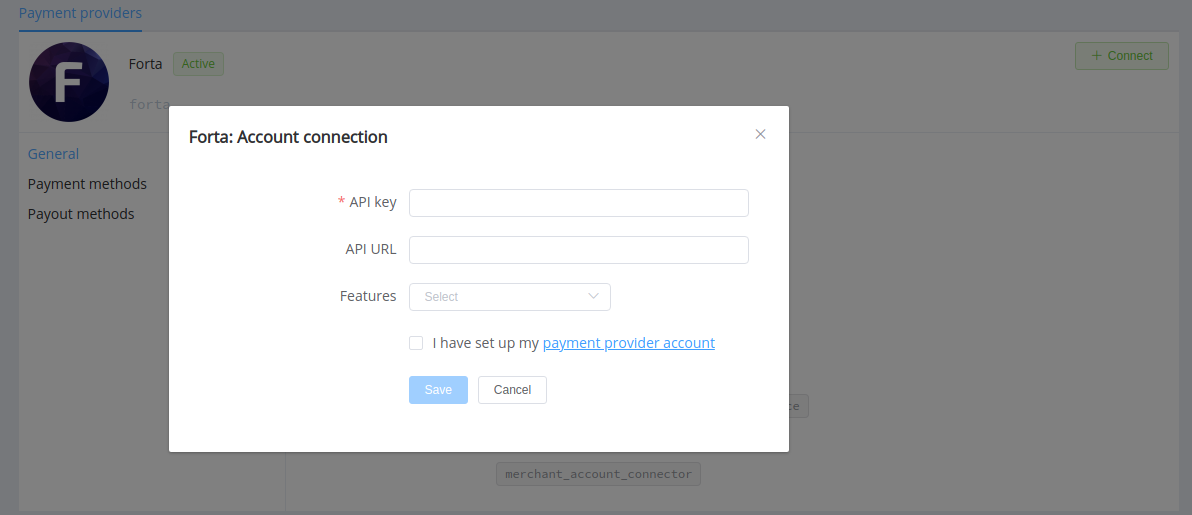
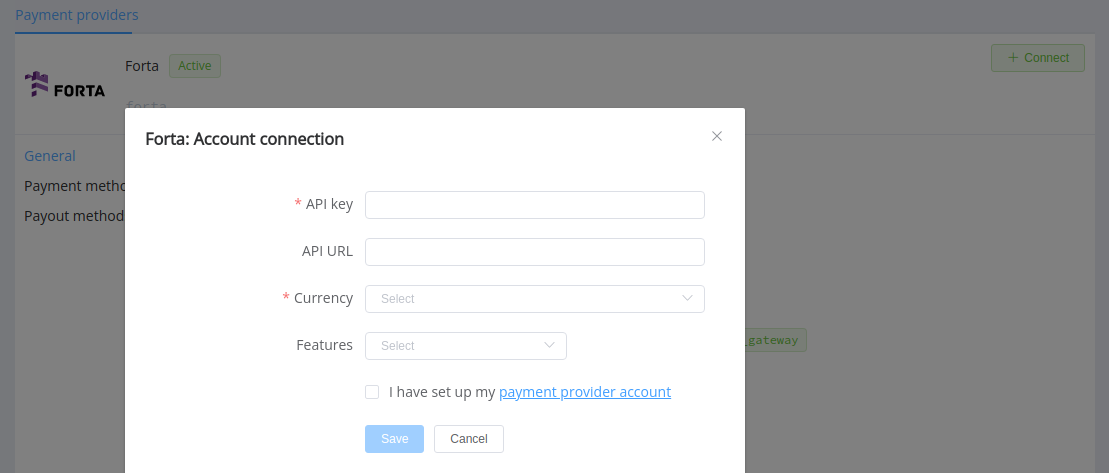
update Forta guide

diff --git a/docs/connectors/forta/index.md b/docs/connectors/forta/index.md
@@ -2,17 +2,34 @@
 
 # Forta
 
-Follow the guidance for setting up a connection with Forta payment service provider.
+!!! quote ""
+
+    With Forta you can manage your finances hassle-free.
+
+**Website**: [fortapayments.com](https://fortapayments.com/)
+
+Follow the guidance for setting up a connection with Forta as a payment service provider.
 
 ## Set up account
 
 ### Step 1: Contact Forta support manager
 
-Send a request on the [website](WEBSITE) or call the hotline. Submit the required documents to verify your account and gain access.
+Send a request on the [website](https://fortapayments.com/) or call the hotline. Submit the required documents to verify your account and gain access.
 
 ### Step 2: Get credentials
 
-To connect Forta account, you just need to obtain the API key and API URL.
+Ask the Forta support team to obtain the project API key and API URL.
+
+Separately, you should generate the key pair for provider account authentication:
+
+!!! example ""
+
+    ``` bash
+    openssl genpkey -outform PEM -algorithm RSA -pkeyopt rsa_keygen_bits:2048 -out private_key.pem
+    openssl pkey -inform PEM -in private_key.pem -pubout -out public_key.pem
+    ```
+
+Share the public key you've got with your Forta support manager.
 
 !!! important
     Be sure to check with the manager if you require to provide a white list of IPs, and if so, specify IP addresses from the [Corefy list](/integration/ips/).
@@ -30,10 +47,12 @@ Enter credentials:
 * API key
 * API URL
 
+Upload the Private key file.
+
 Choose currencies according to available currencies for your Forta account and check details of the connection with your {{custom.company_name}} account manager.
 
 !!! success
-    You have connected **Forta** provider account!
+    You have connected the **Forta** provider account!
 
 ## Connect H2H merchant account
 
@@ -48,10 +67,10 @@ Enter credentials:
 * API key
 * API URL
 
-Choose Features according to available features for your Forta account, but it's necessary to verify details of the connection with your {{custom.company_name}} account manager.
+Choose Currencies and Features. You can set these parameters according to available currencies and features for your Forta account, but it's necessary to verify details of the connection with your {{custom.company_name}} account manager.
 
 !!! success
-    You have connected **Forta** H2H merchant account!
+    You have connected the **Forta** H2H merchant account!
 
 !!! question "Still looking for help connecting your Forta account?"
     <!--email_off-->[Please contact our support team!](mailto:{{custom.support_email}})<!--/email_off-->
